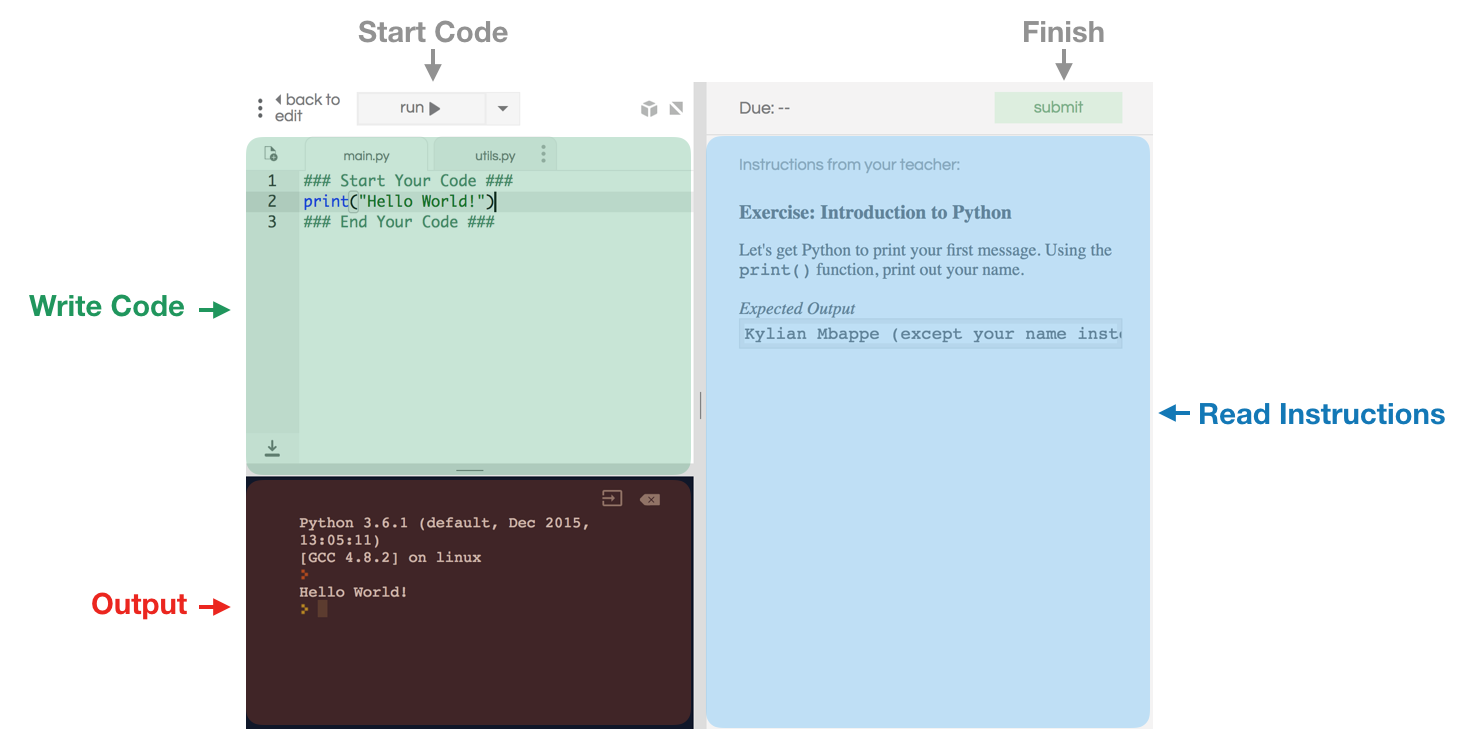
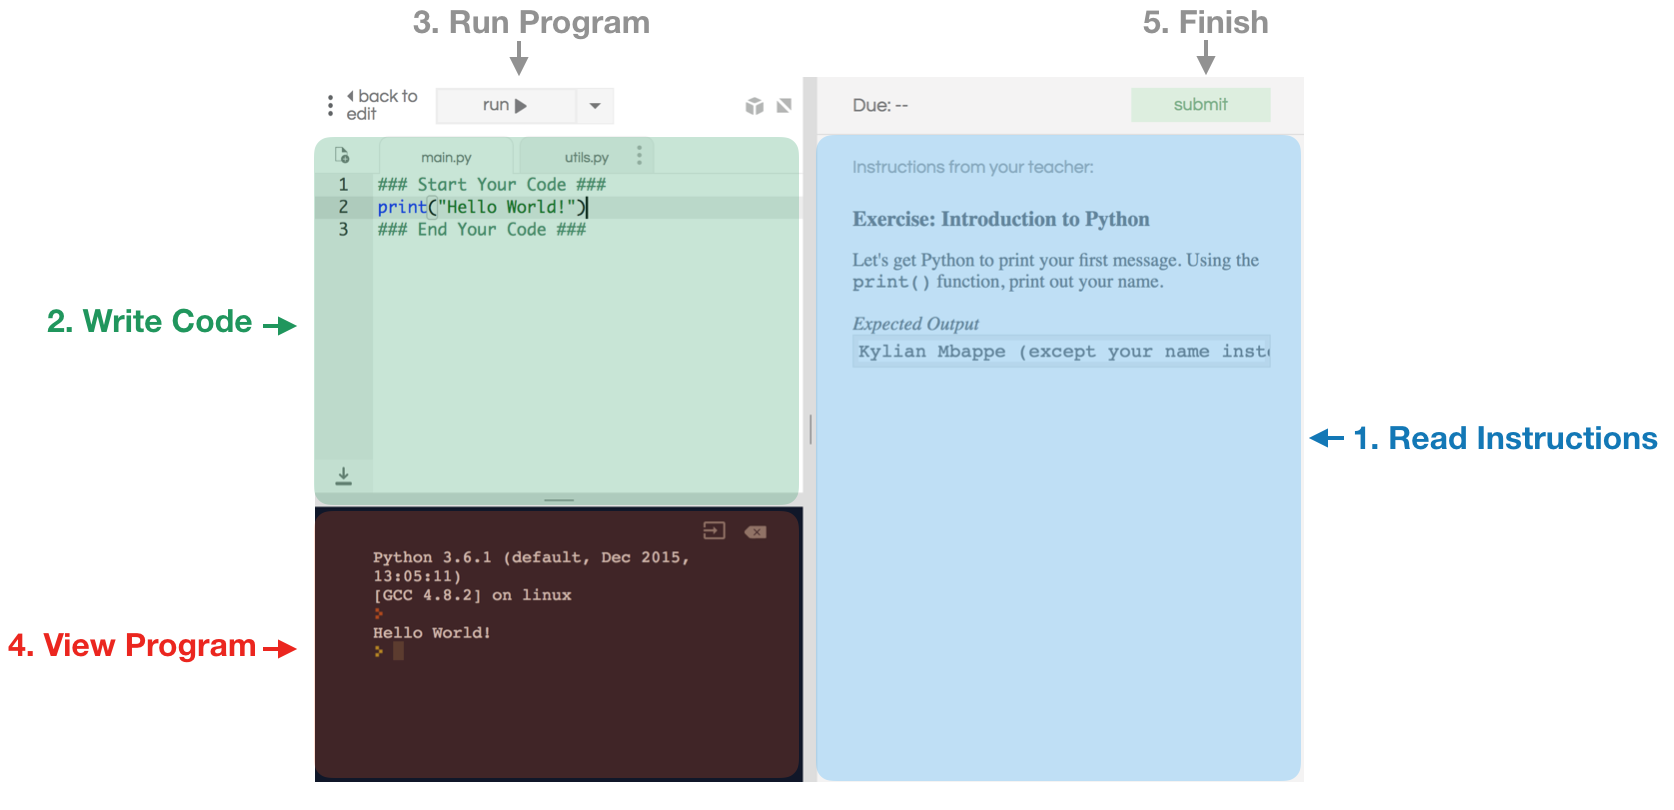
Added assignments.

Changed region(s): [[0.0, 0.0, 1.0, 0.9866], [0.2456, 0.0, 0.399, 0.0925]]

diff --git a/_layouts/default.html b/_layouts/default.html
@@ -20,7 +20,7 @@
           <a href="https://geoffreyangus.github.io/CS106R/about" class="btn">About</a>
           <a href="https://geoffreyangus.github.io/CS106R/syllabus" class="btn">Syllabus</a>
           <a href="https://geoffreyangus.github.io/CS106R/notes" class="btn">Notes</a>
-          <a href="https://repl.it/student/classrooms/80880" class="btn">Assignments</a>
+          <a href="https://geoffreyangus.github.io/CS106R/assignments" class="btn">Assignments</a>
         
       </header>
     {% else %}
@@ -29,7 +29,7 @@
           <a href="https://geoffreyangus.github.io/CS106R/about" class="btn">About</a>
           <a href="https://geoffreyangus.github.io/CS106R/syllabus" class="btn">Syllabus</a>
           <a href="https://geoffreyangus.github.io/CS106R/notes" class="btn">Notes</a>
-          <a href="https://repl.it/student/classrooms/80880" class="btn">Assignments</a>
+          <a href="https://geoffreyangus.github.io/CS106R/assignments" class="btn">Assignments</a>
          
       </div>
       <h1 class="page-name">{{ page.title | default: site.github.repository_name }}</h1>

diff --git a/notes.md b/notes.md
@@ -40,16 +40,22 @@ Computer programs are written in **programming languages**. A programming langua
 In this course we'll be working with a programming lanugage called Python. We chose Python because it is powerful, fun to work with and extremely popular. That being said, this is an introductory course in Computer Science, not Python – the ideas and concepts we cover can be applied to programming in almost any language. 
 
 ### Coding with repl.it
-We are going to use a website called [repl.it](repl.it) that allows us to code in Python online. All of our exercises and assignments will be on repl.it. In the figure below, we've highlighted a screen-capture of repl.it. 
+We are going to use a website called [repl.it](repl.it) that allows us to code in Python online. All of our exercises and assignments will be on repl.it. Below we explain how to use repl.it to write Python code: 
 
 <img class="computer_diagram" align="right" src="figures/notes/fig_replit.png">
+
+1. **Read Instructions** – For each exercise in repl.it, we'll include instructions in the right panel (highlighted in blue above). The instructions will tell how to complete the exercise. 
+2. **Write Code** – Once you've read the instructions, you'll want to start writing code. You will write your code in the top left (highlighted in green above). 
+3. **Start Program** – After writing some code, you'll want to try running your program. To run the program click the `run` button above the coding area. 
+4. **View Program** – The program will appear in the black area (highlighted in red above). 
+5. **Finish** – When you've finished your program and its working as you'd like, you'll need to submit the exercise. To do so, click the submit button in the top right. Clicking submit 
 
 ### Python Files
 Python programs are written in simple text files. These file names end with `.py`. Each line in the file is one instruction for the computer. When we run a Python program, the computer steps line by line through the file from the top to bottom reading one instruction at a time.
 
-### Running a Python Program 
-In repl.it, you can run a Python file by simply clicking **Run** when the Python file is open.  
+In the figure above, the panel highlighted in blue shows the python file that you are working on. 
 
+### Running a Python Program 
 To run a Python program on your computer, run the following command in your terminal, replacing `filename.py` with the path to your program file.
 ```Bash
 python filename.py
@@ -57,15 +63,17 @@ python filename.py
 In repl.it, you can run a Python file by simply clicking **Run**.  
 
 ### Our First Python Program 
-Let's write our first Python program. We'd like our program to output a simple message: I am a Python program!
+Let's write our first Python program. Our program will  only do one thing: show a simple message `I am a Python program!`
 
-To output text in Python, we will use the `print()` function. In the example below, we call the print function and include the message we'd like to print within the parantheses that follow the function name. **Remember**: the message itself needs be written within quotes.  
+To print text in Python, we can use the `print()` function. In the parantheses following `print`, we write the message we'd like to print. For example: `print("Hello!")`. Notice that the message itself needs be written within quotation marks.
+
+Let's write a program to print the message from above: `I am a Python program`. 
 
 _Python Code_
 ```python
 print("I am a Python program!")
 ```
-_Output_
+_Result_
 ```
 > I am a Python program!
 ```
@@ -85,6 +93,14 @@ We used the `print()` function above to print our name. But, what is a function?
 Python comes with  program can output text . 
 
 Let's write our first program in Python. 
+
+
+ ## PyBot 
+
+### PyBot Functions 
+
+`move()` Move PyBot one cell in the direction she is facing. 
+Example: 
 
 ## Basic Types 
 Learning Objectives

diff --git a/assignment.md b/assignment.md
@@ -1,0 +1,10 @@
+---
+title: Assignments
+---
+
+
+# Assignment 1
+
+# Assignment 2 
+
+# Assignment 3
